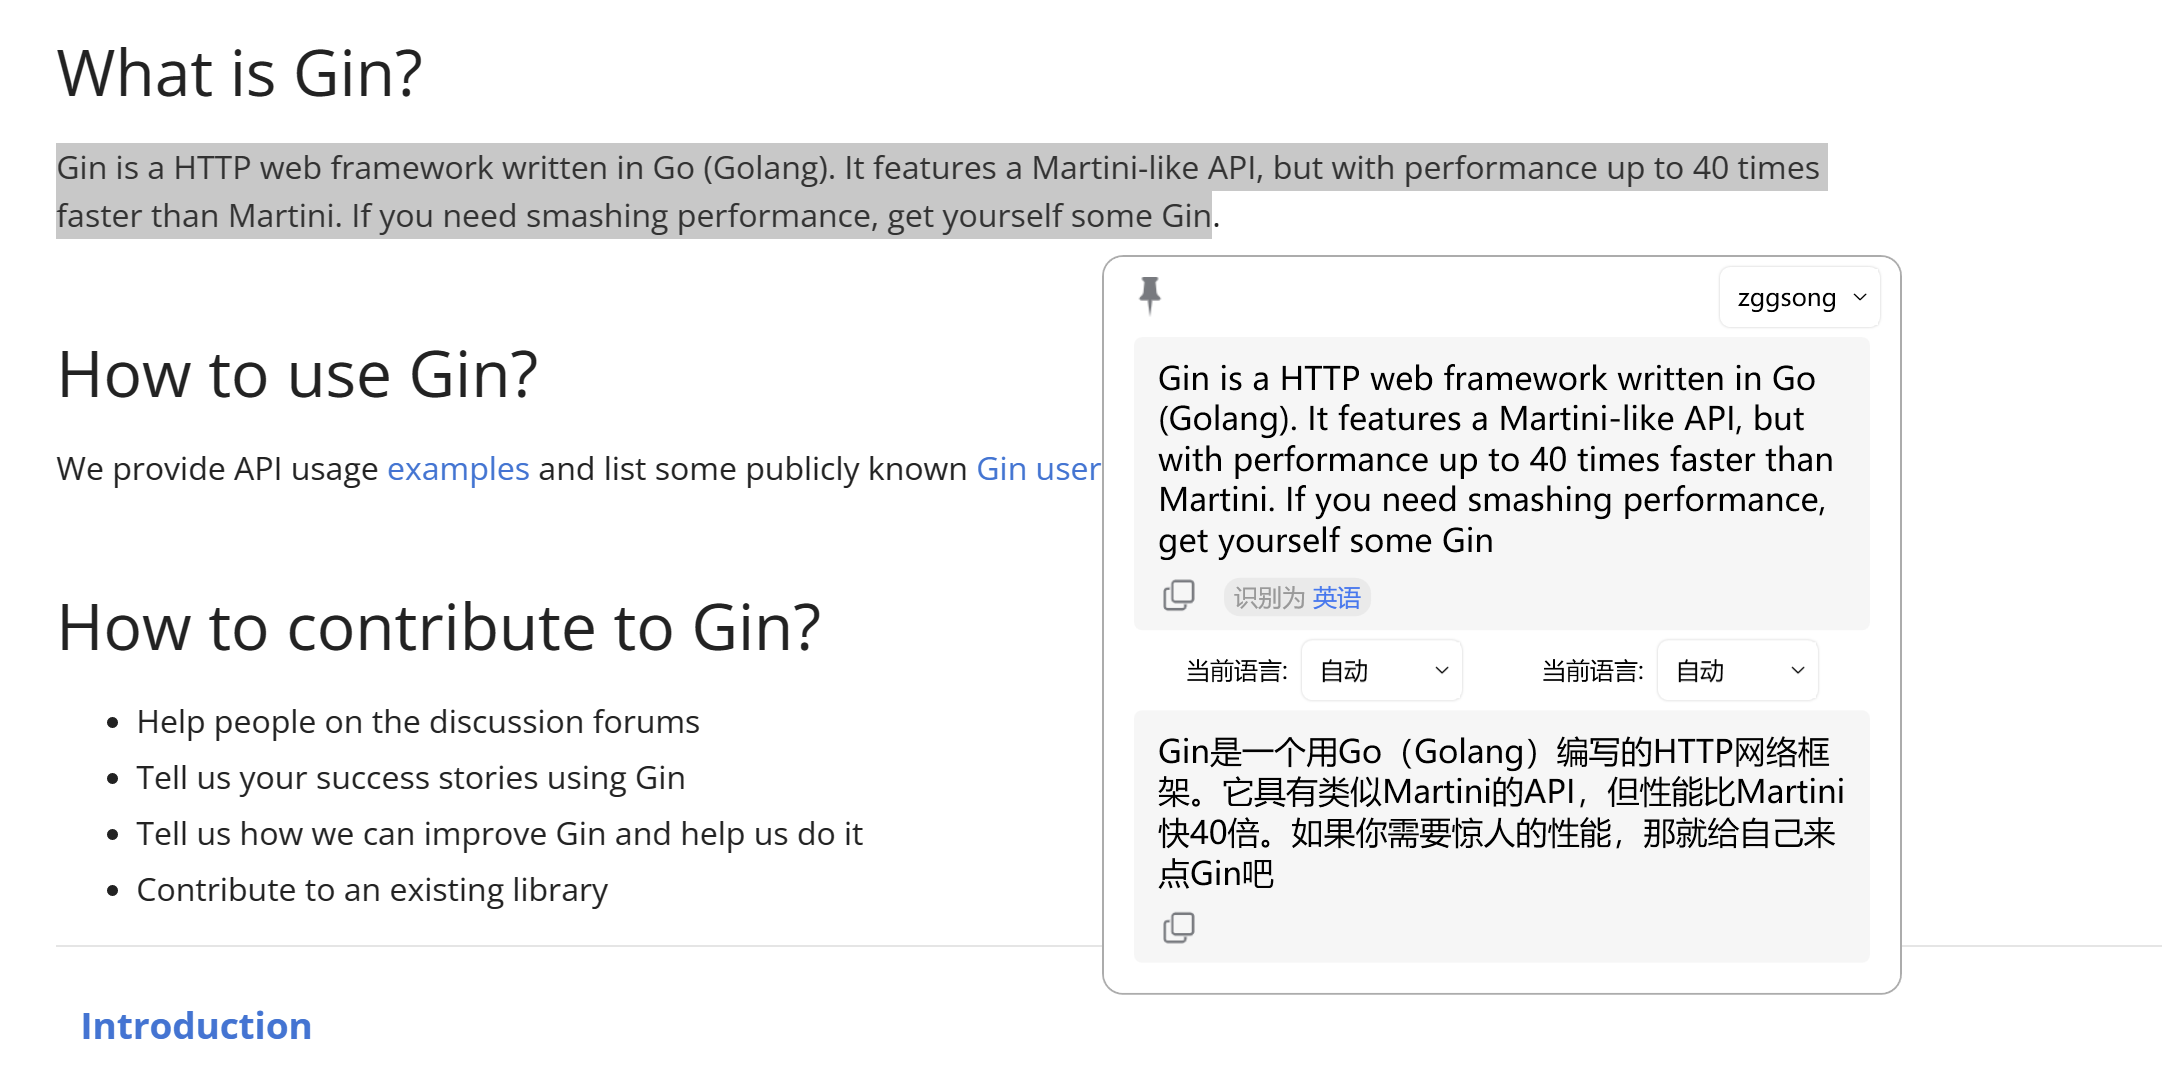
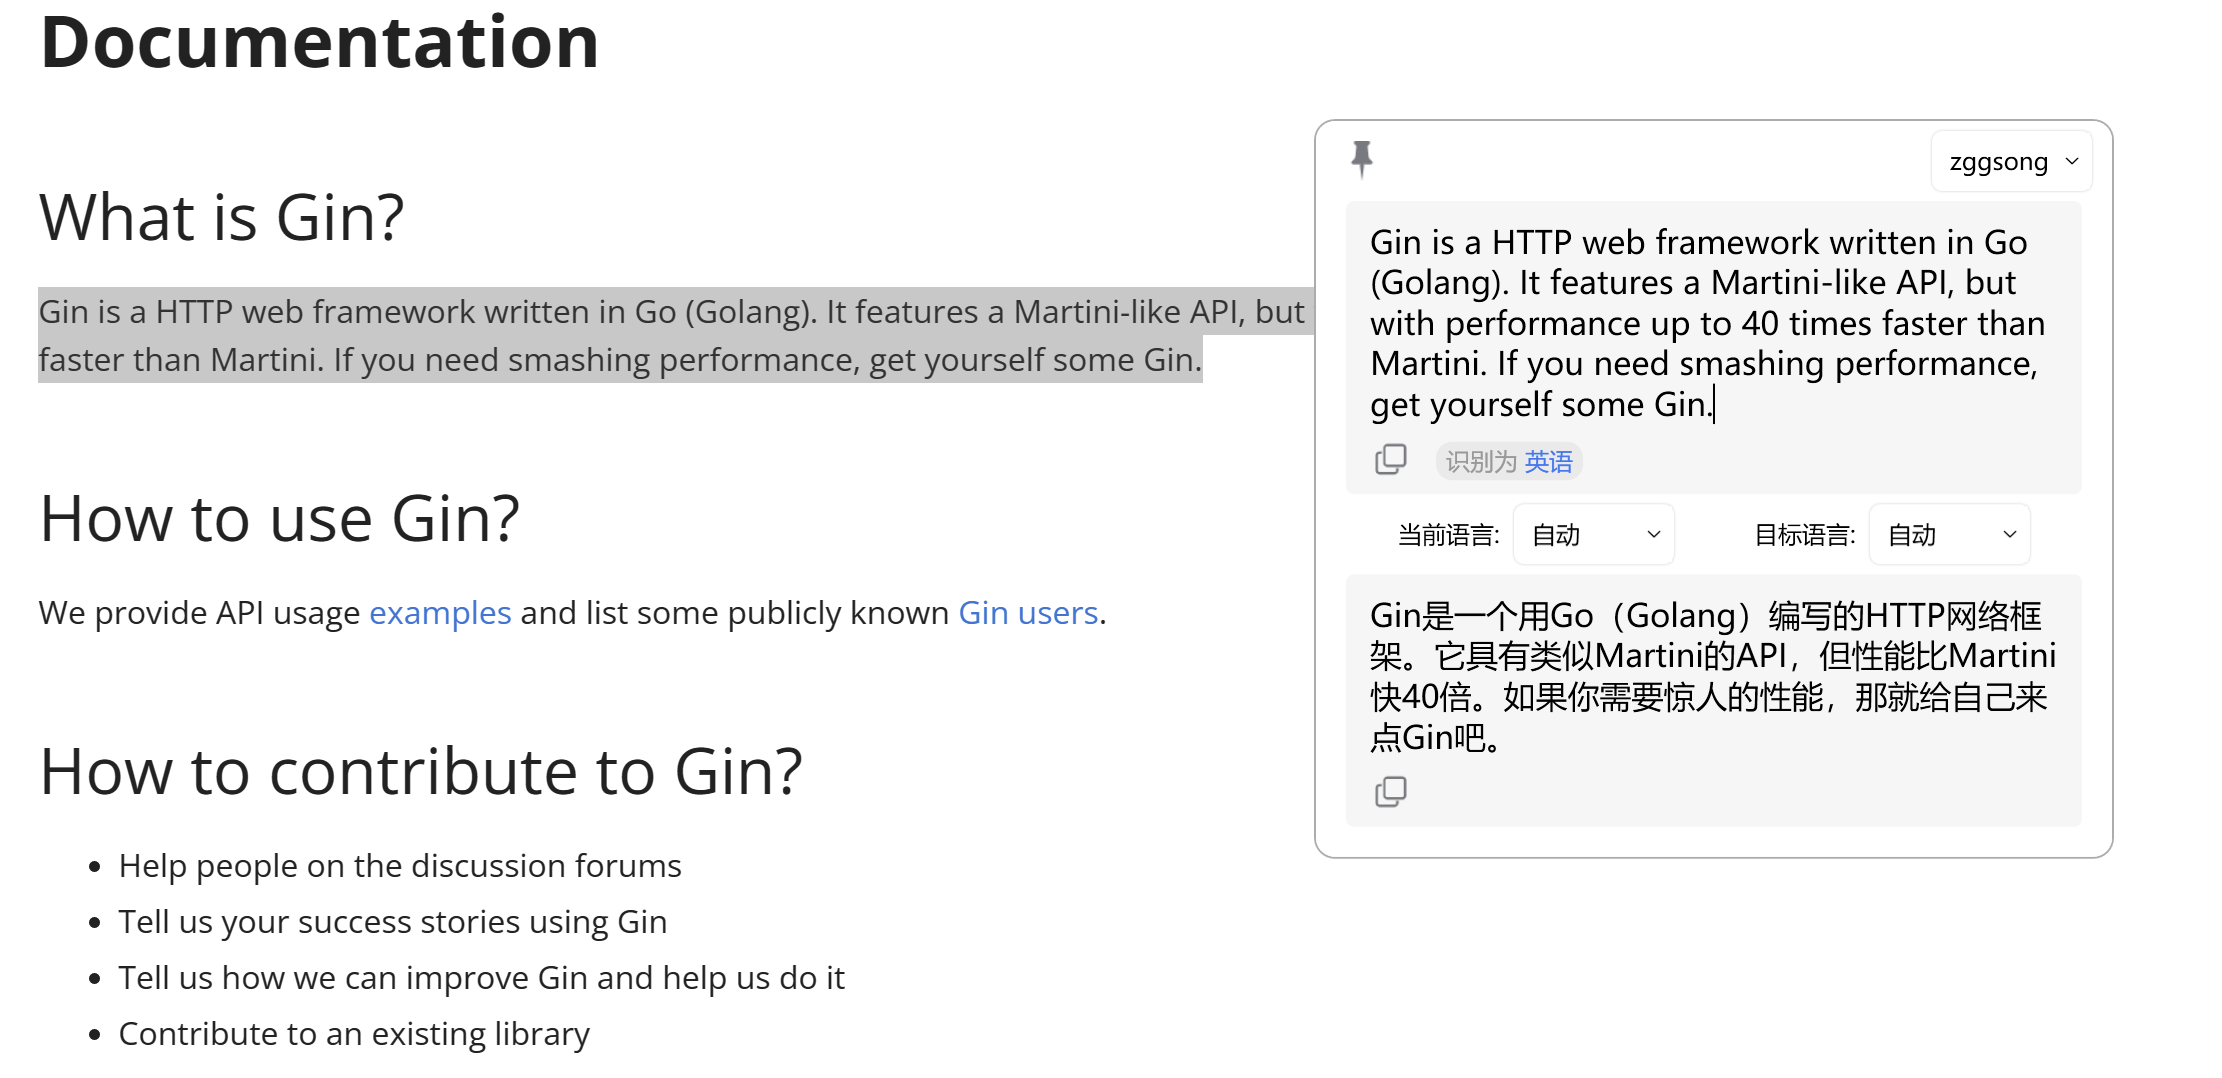
fix: fix ui error

diff --git a/STranslate/MainWindow.xaml b/STranslate/MainWindow.xaml
@@ -375,7 +375,7 @@
                           ItemsSource="{Binding InputCombo}"
                           SelectedItem="{Binding InputComboSelected,Mode=TwoWay,UpdateSourceTrigger=PropertyChanged}" />
                 <Separator Margin="20,0"/>
-                <TextBlock Text="当前语言:  "
+                <TextBlock Text="目标语言:  "
                            VerticalAlignment="Center"/>
                 <ComboBox x:Name="OutCombo"
                           Style="{StaticResource cmbstyle}"
